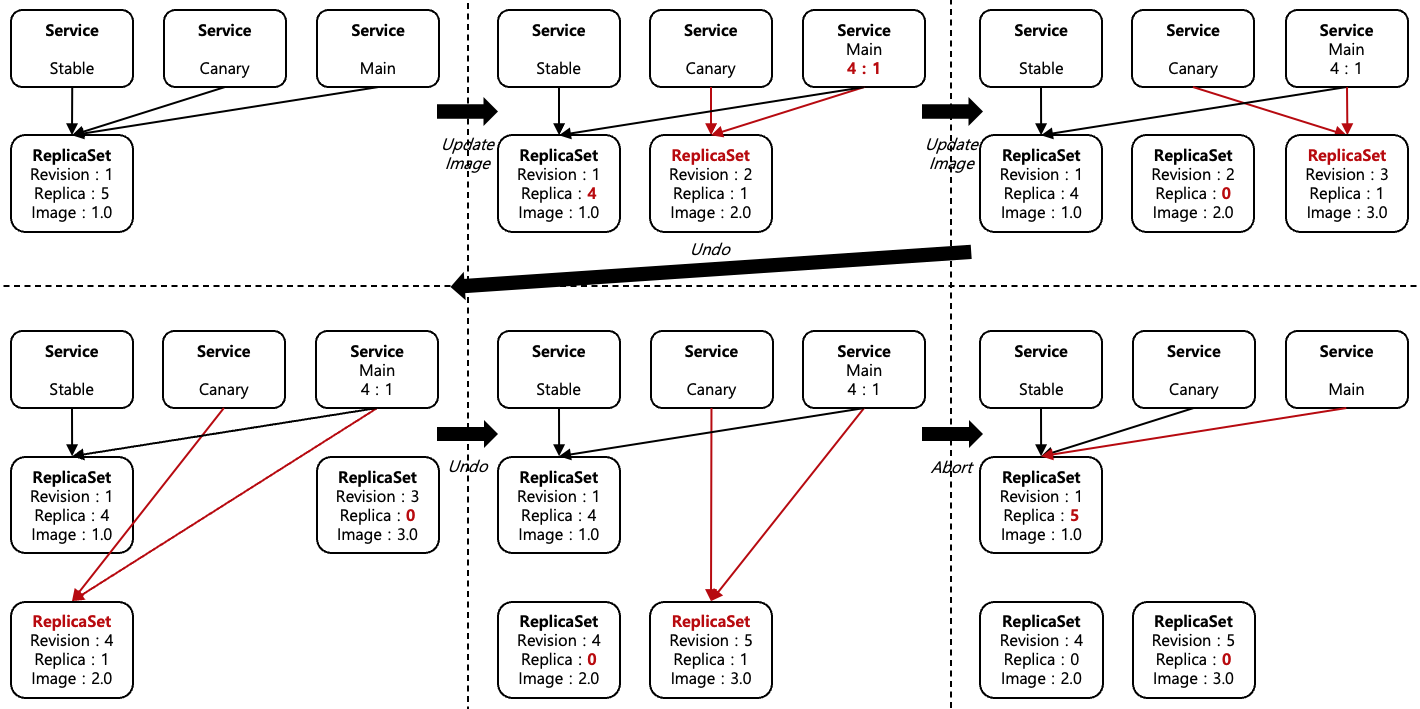
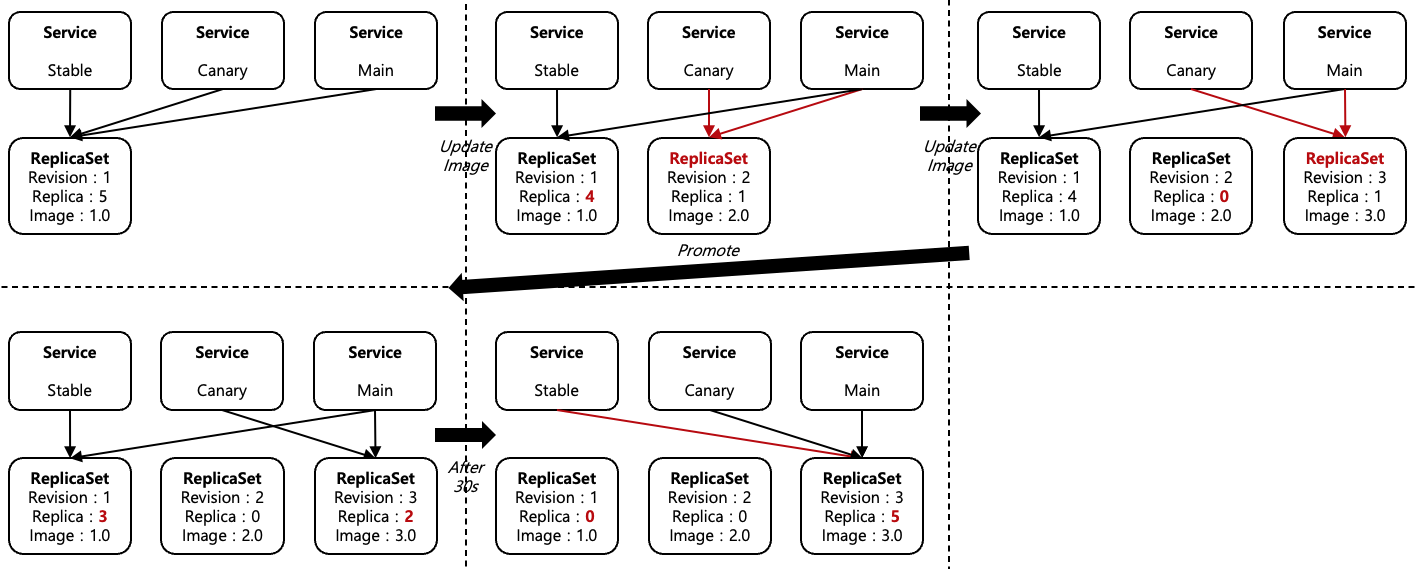
update

Changed region(s): [[0.0, 0.0, 1.0, 0.9859], [0.6831, 0.8366, 0.9005, 0.9859], [0.1242, 0.8366, 0.1863, 0.9859]]

diff --git a/content/docs/theory-analysis/argo-rollouts/index.md b/content/docs/theory-analysis/argo-rollouts/index.md
@@ -384,7 +384,7 @@ spec:
 
 {{< figure caption="[Figure 2] Argo Rollouts Blue/Green Case" src="images/argo-rollouts-case-bluegreen.png" width="800px" >}}
 
-[Figure 2]는 Argo Rollouts Blue/Green 배포를 위한 Test Case를 도식화 하고 있다. Container Image를 2번 변경한 이후에 Promotion을 진행하여, `Revision 2`를 건너뛰고 `Revision 3`으로 한번에 Promotion을 수행한다. Blue/Green 배포이기 때문에 Green의 파드의 개수는 Blue 파드의 개수와 동일하게 5개로 유지된다. Preview Kubernetes Service는 `Revision 1`, `Revision 2`, `Revision 3`을 차례대로 가리키고 있으며, Active Kubernetes Service는 `Revision 1`을 가리키고 있다가, Promotion이 완료되면 `Revision 3`을 가리키는 것을 확인할 수 있다.
+[Figure 2]는 Argo Rollouts Blue/Green 배포를 위한 Test Case를 도식화 하고 있다. Container Image를 2번 변경한 이후에 Promotion을 진행하여, `Revision 2`를 건너뛰고 `Revision 3`으로 한번에 Promotion을 수행한다. Blue/Green 배포이기 때문에 Green의 파드의 개수는 Blue 파드의 개수와 동일하게 5개로 유지된다. `Preview` Kubernetes Service는 `Revision 1`, `Revision 2`, `Revision 3`을 차례대로 가리키고 있으며, `Active` Kubernetes Service는 `Revision 1`을 가리키고 있다가, Promotion이 완료되면 `Revision 3`을 가리키는 것을 확인할 수 있다.
 
 ```yaml {caption="[Manifest 10] Blue/Green Test Case", linenos=table}
 apiVersion: argoproj.io/v1alpha1
@@ -621,17 +621,17 @@ Annotations:              argo-rollouts.argoproj.io/managed-by-rollouts: mock-se
 Selector:                 app=mock-server,rollouts-pod-template-hash=6fcb56df9b
 ```
 
-[Manifest 10]은 Blue/Green 배포를 위한 Test Case를 나타내고 있으며, [Shell 2]는 Test Case를 수행하는 과정을 나타내고 있다. [Manifest 10]의 `mock-server-active` Kubernetes Service와 `mock-server-preview` Kubernetes Service는의 Selector가 `app=mock-server`로 동일하기 설정되어 있지만, 실제 Blue/Green 배포가 수행될때는 `rollouts-pod-template-hash` Selector에 의해서 특정 Revision을 가리키는 것을 확인할 수 있으며, 이러한 Revision 지정은 Rollout Controller가 수행한다.
+[Manifest 10]은 Blue/Green 배포를 위한 Test Case를 위한 Manifest를 나타내고 있으며, [Shell 2]는 해당 Test Case를 수행하는 과정을 나타내고 있다. [Manifest 10]의 `mock-server-active` Kubernetes Service와 `mock-server-preview` Kubernetes Service는 Selector가 `app=mock-server`로 동일하기 설정되어 있지만, 실제 Blue/Green 배포가 수행될때는 `rollouts-pod-template-hash` Selector에 의해서 특정 Revision을 가리키는 것을 확인할 수 있으며, 이러한 Revision 지정은 Rollout Controller가 수행한다.
 
 #### 2.2.2. Canary Success
 
 {{< figure caption="[Figure 3] Canary Success Test Case" src="images/argo-rollouts-case-canary-success.png" width="1100px" >}}
 
-[Figure 3]는 Argo Rollouts Canary 배포를 위한 Test Case를 도식화 하고 있다. Container Image를 2번 변경한 이후에 Promotion을 진행하여, `Revision 2`를 건너뛰고 `Revision 3`으로 한번에 Promotion을 수행한다. Image를 변경한 직후에는 Weight 20% 설정으로 인해서 한개의 파드가 바로 생기며, Promotion이 수행된 이후에 Weight 40% 설정으로 인해서 파드가 2개로 증가하고, 30초 뒤에 Weight 100% 설정으로 인해서 파드가 5개로 증가하는 것을 확인할 수 있다.
+[Figure 3]는 Argo Rollouts Canary 배포 성공 Test Case를 도식화 하고 있다. Container Image를 2번 변경한 이후에 Promotion을 진행하여, `Revision 2`를 건너뛰고 `Revision 3`으로 한번에 Promotion을 수행한다. Image를 변경한 직후에는 Weight 20% 설정으로 인해서 한개의 파드가 바로 생기며, Promotion이 수행된 이후에 Weight 40% 설정으로 인해서 파드가 2개로 증가하고, 30초 뒤에 Weight 100% 설정으로 인해서 파드가 5개로 증가하는 것을 확인할 수 있다.
 
-Blue/Green 배포이기 때문에 Green의 파드의 개수는 Blue 파드의 개수와 동일하게 5개로 유지된다. Preview Kubernetes Service는 `Revision 1`, `Revision 2`, `Revision 3`을 차례대로 가리키고 있으며, Active Kubernetes Service는 `Revision 1`을 가리키고 있다가, Promotion이 완료되면 `Revision 3`을 가리키는 것을 확인할 수 있다.
+`Canary` Kubernetes Service는 `Revision 1`, `Revision 2`, `Revision 3`을 차례대로 가리키고 있으며, `Stable` Kubernetes Service는 `Revision 1`을 가리키고 있다가, Promotion이 완료되면 `Revision 3`을 가리키는 것을 확인할 수 있다. `Main` Service는 언제나 모든 Revision을 가리키며 Stable과 Canary Version에 Traffic을 분배한다.
 
-```yaml {caption="[Manifest 11] Canary Success Test Case", linenos=table}
+```yaml {caption="[Manifest 11] Canary Success Test Case"}
 apiVersion: argoproj.io/v1alpha1
 kind: Rollout
 metadata:
@@ -935,6 +935,8 @@ Annotations:              argo-rollouts.argoproj.io/managed-by-rollouts: mock-se
 Selector:                 app=mock-server,rollouts-pod-template-hash=6fcb56df9b
 ...
 ```
+
+[Manifest 11]은 Canary 배포 성공 Test Case를 위한 Manifest를 나타내고 있으며, [Shell 3]는 해당 Test Case를 수행하는 과정을 나타내고 있다. [Figure 3]와 동일하게 동작하는 것을 확인할 수 있다. [Manifest 11]의 `mock-server-stable` Kubernetes Service와 `mock-server-canary` Kubernetes Service는 Selector가 `app=mock-server`로 동일하기 설정되어 있지만, 실제 Canary 배포가 수행될때는 `rollouts-pod-template-hash` Selector에 의해서 특정 Revision을 가리키는 것을 확인할 수 있으며, 이러한 Revision 지정은 Rollout Controller가 수행한다.
 
 #### 2.2.3. Canary with Undo and Abort
 
